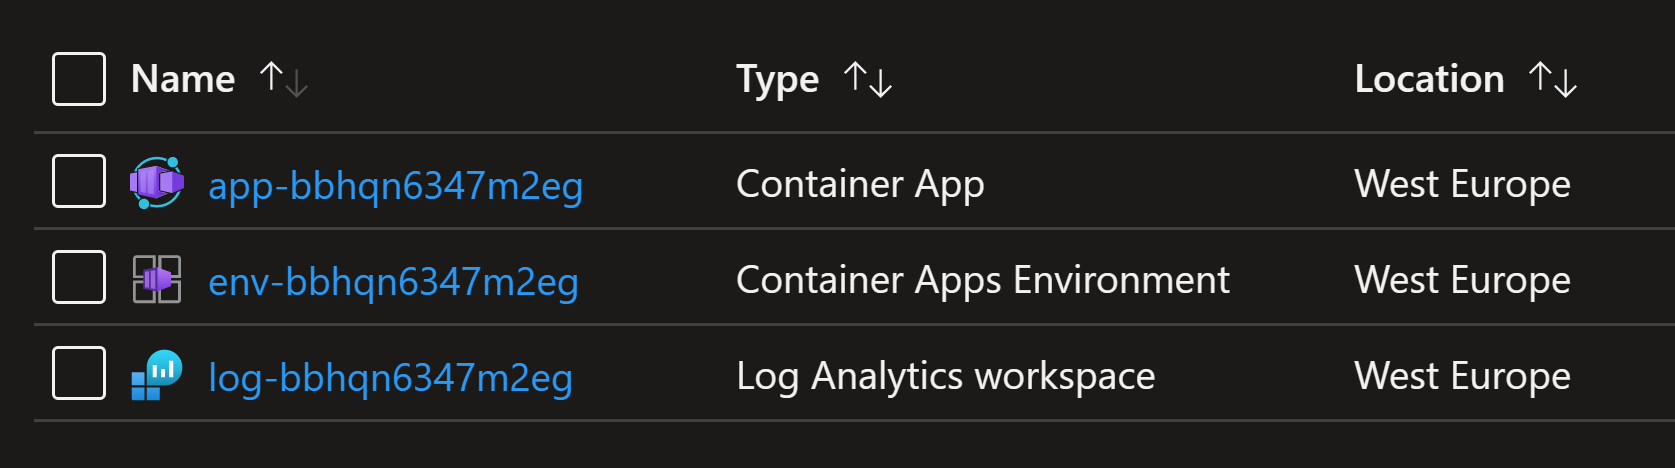
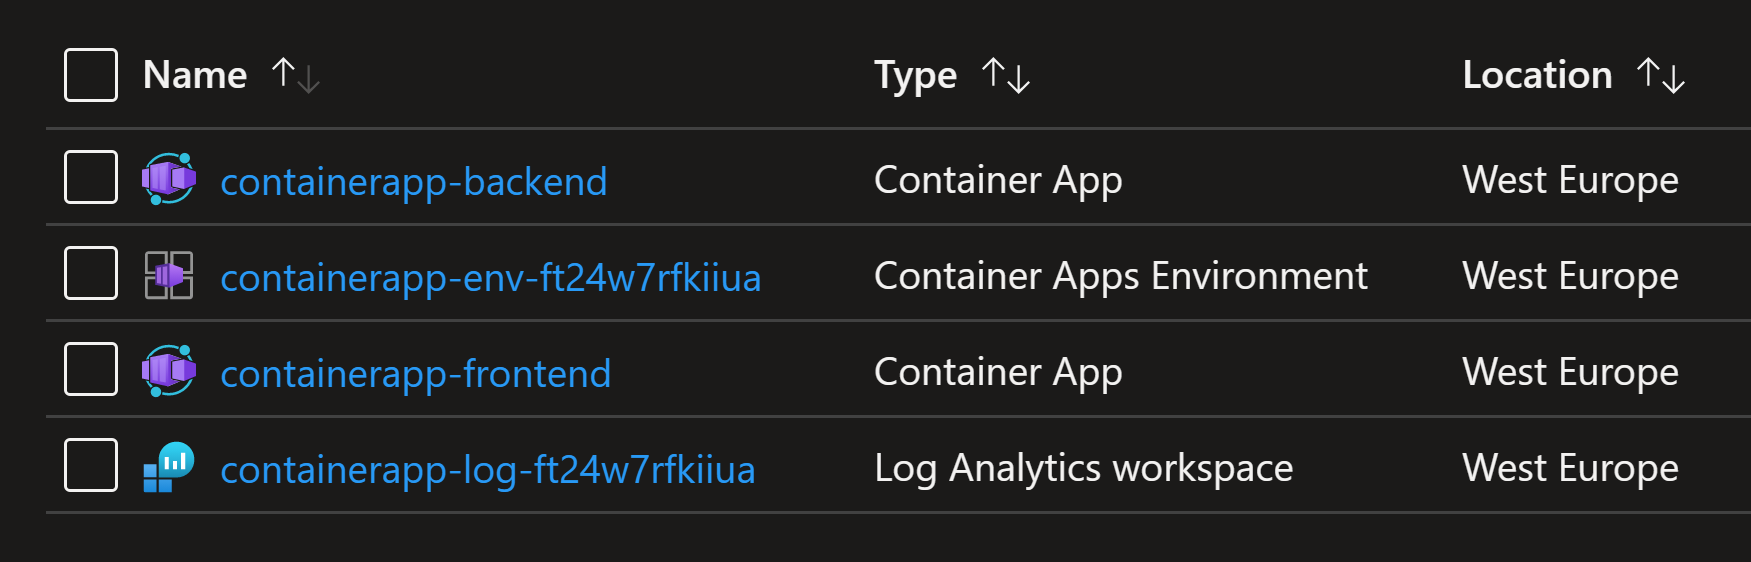
created bicep config

Changed region(s): [[0.031, 0.0598, 1.0, 0.9274], [0.8072, 0.7778, 0.9624, 0.8675]]

diff --git a/06_create_aca_apps_bicep/Readme.md b/06_create_aca_apps_bicep/Readme.md
@@ -4,7 +4,8 @@ This template provides a way to deploy a Container App in a Container App Enviro
 You need to create a resource group. Then you run the following caommands to create the following resources:
 1. Log Analytics workspace
 2. Container Apps Environment
-3. Container Apps container using a sample docker image from MCR registry
+3. Container Apps container for backend app using a sample docker image from Github registry (GHCR)
+3. Container Apps container for frontend app using a sample docker image from Github registry (GHCR)
 
 <img src="images/resources.png">
 
